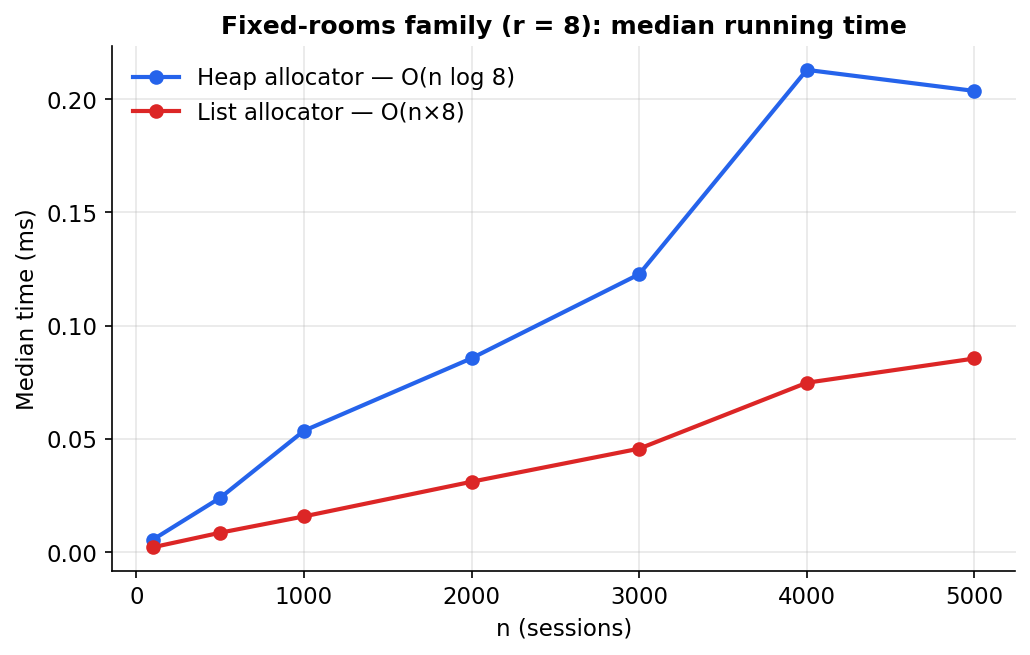
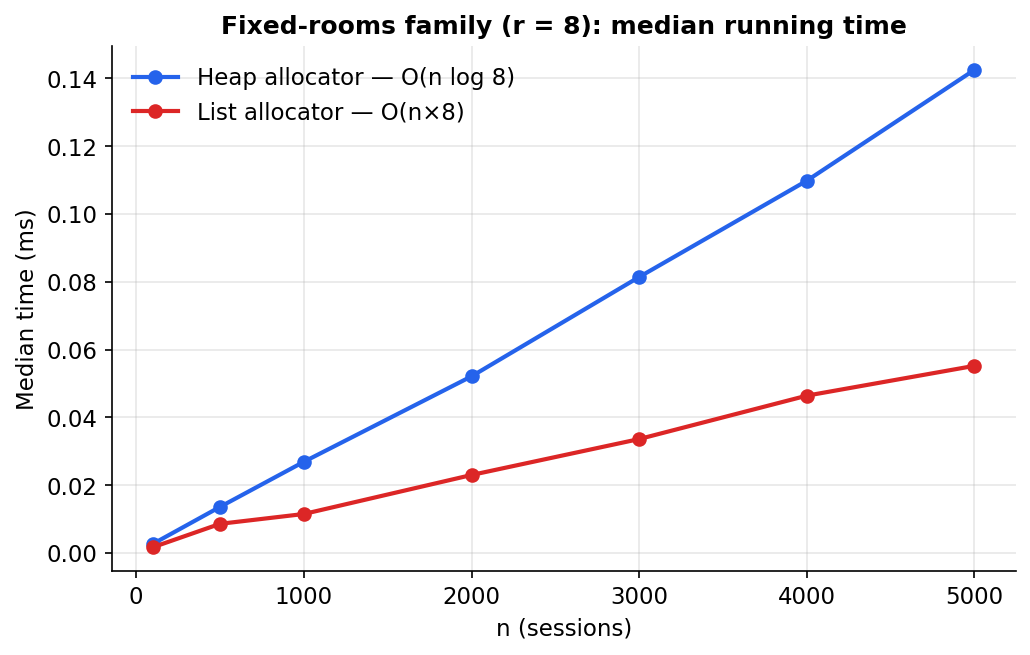
fixed redundant internal sort from both allocators

diff --git a/src/HeapRoomAllocator.java b/src/HeapRoomAllocator.java
@@ -1,5 +1,5 @@
+
 import java.util.ArrayList;
-import java.util.Comparator;
 import java.util.List;
 import java.util.PriorityQueue;
 
@@ -7,11 +7,7 @@ public class HeapRoomAllocator {
 
     public static Result allocate(List<Session> input) {
 
-        List<Session> sessions = new ArrayList<>(input);
-
-        sessions.sort(
-                Comparator.comparingInt(Session::getStart)
-        );
+        List<Session> sessions = input;
 
        
          /* Operation counter. It counts every comparison of two finish times that the algorithm performs:

diff --git a/src/ListRoomAllocator.java b/src/ListRoomAllocator.java
@@ -1,16 +1,12 @@
+
 import java.util.ArrayList;
-import java.util.Comparator;
 import java.util.List;
 
 public class ListRoomAllocator {
 
     public static Result allocate(List<Session> input) {
 
-        List<Session> sessions = new ArrayList<>(input);
-
-        sessions.sort(
-                Comparator.comparingInt(Session::getStart)
-        );
+        List<Session> sessions = input;
 
         List<Room> rooms = new ArrayList<>();
         List<RoomAssignment> assignments = new ArrayList<>();
